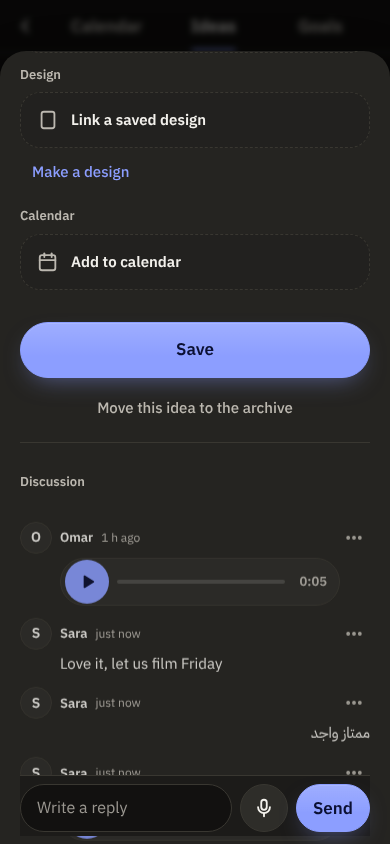
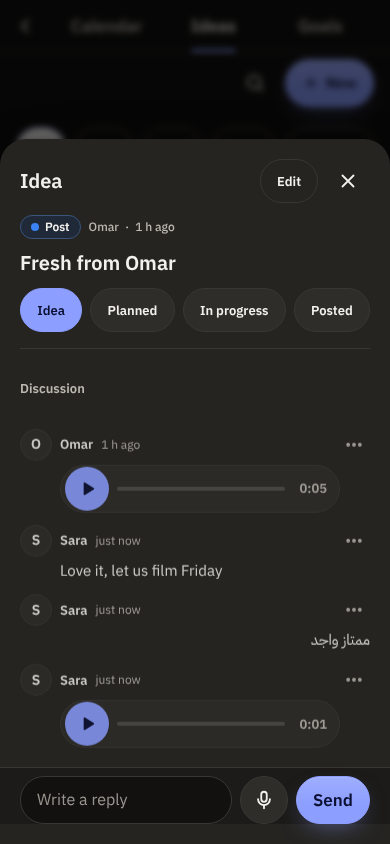
Ideas: discussion-first sheet with Edit, unread pills + onUnread, Instant Plan cache, open(id)
Claude-Session: https://claude.ai/code/session_01Y65H7aiL2ATUBPRfHggcrW

diff --git a/assets/ideas.js b/assets/ideas.js
@@ -48,11 +48,27 @@ function make(o){
   if(o.shell) root.classList.add('is-shell');
   let lastSig='', C=null, items=[], notes=[], openSheet=null, designs=[], cal={}, urls={}, state='loading', note='', run=0, slowT=0, built=false;
   let stage='idea', typeF='', q='', searchOpen=false, wasWide=wide();
+  let staleAt=null, dataAt=null, lastExtra='', pendingOpen=null, thumbsOnce=false, lastUnread=-1, saveT=0;
+  const CKEY='studio:plan:ideas:'+o.brand, SKEY='studio:ideas:seen:'+o.brand;
+  /* ---------- per-device memory: the Plan cache (paints at once) and when I last opened each idea ---------- */
+  const newest=(a,n)=>{ if(a.length<=n) return a; const keep=new Set(a.slice().sort((x,y)=>String(y.created_at).localeCompare(String(x.created_at))).slice(0,n)); return a.filter(x=>keep.has(x)); };   /* the newest n, in their own order */
+  const persist=()=>{ if(state!=='ok'||staleAt) return; const its=items.filter(x=>!x._pending&&!/^tmp/.test(x.id)), ns=notes.filter(x=>!x._pending);
+    wr(CKEY,{v:1,at:dataAt||new Date().toISOString(),items:newest(its,200),notes:newest(ns,600)}); };
+  const persistSoon=()=>{ clearTimeout(saveT); saveT=setTimeout(persist,250); };
+  const seenMap=()=>{ const m=rd(SKEY); return m&&typeof m==='object'&&!Array.isArray(m)?m:{}; };
+  function markSeen(id){ if(!id||/^tmp/.test(id)) return; const m=seenMap(); let t=new Date().toISOString();
+    notes.forEach(n=>{ if(n.idea_id===id&&n.created_at&&String(n.created_at)>t) t=String(n.created_at); }); m[id]=t;
+    const ks=Object.keys(m); if(ks.length>300){ ks.sort((a,b)=>String(m[a]).localeCompare(String(m[b]))); ks.slice(0,ks.length-300).forEach(k=>{ delete m[k]; }); } wr(SKEY,m); }
+  const hydrate=()=>{ const c=rd(CKEY); if(!c||c.v!==1||!Array.isArray(c.items)) return false; items=c.items; notes=Array.isArray(c.notes)?c.notes:[]; state='ok'; dataAt=c.at||null; lastSig=JSON.stringify([items,notes]); return true; };
+  /* only the designs and calendar entries that ideas point to can change what a card shows */
+  const extraSig=()=>JSON.stringify(items.map(x=>{ const g=x.design_id&&designOf(x.design_id), c=x.calendar_id&&cal[x.calendar_id]; return [g?g.name+(g.thumb_path||''):0,c?c.day+(c.at||''):0]; }));
+
   const authorName=()=>{ try{ return (o.who&&o.who.author&&o.who.author())||null; }catch(_){ return null; } };
   const designOf=id=>designs.find(d=>d.id===id);
   const againBtn='<button type="button" class="btn slim" data-reload>Try again</button>';
   const noteBox=(icn,title,text,btn)=>`<div class="sv-note"><span class="sn-ic" aria-hidden="true">${icn}</span><div class="sn-txt"><b>${title}</b><p>${text}</p></div>${btn||''}</div>`;
 
+  try{ if(hydrate()) lastExtra=extraSig(); }catch(_){}
   /* ---------- load ---------- */
   async function ensure(){ if(!C) C=await o.cloud(); return C; }
   async function load(){
@@ -62,17 +78,19 @@ function make(o){
     try{
       if(navigator.onLine===false) throw Object.assign(new Error('No connection. Check your internet and try again.'),{offline:true});
       await ensure(); if(my!==run) return;
-      if(!(await o.member())){ state='out'; drawTop(); drawBody(); return; }
+      if(!(await o.member())){ state='out'; items=[]; notes=[]; staleAt=null; lastSig=''; clearTimeout(saveT); wr(CKEY,null); drawTop(); drawBody(); return; }
       const now=new Date(), from=iso(new Date(now.getFullYear(),now.getMonth(),now.getDate()-90)), to=iso(new Date(now.getFullYear(),now.getMonth(),now.getDate()+90));
       const [list0,dl,cl,nl]=await Promise.all([C.ideas(o.brand),Promise.resolve(o.designs?o.designs():[]).catch(()=>designs),C.calendar?C.calendar(o.brand,{from:from,to:to}).catch(()=>[]):[],C.ideaNotes?C.ideaNotes(o.brand).catch(()=>notes):[]]); if(my!==run) return;
       const list=list0.map(x=>x.stage==='inbox'?{...x,stage:'idea'}:x), keepN=notes.filter(n=>n._pending); notes=(nl||[]).concat(keepN);
       designs=dl||[]; cal={}; (cl||[]).forEach(x=>{ cal[x.id]=x; });
       const live=new Set(list.map(x=>x.id)), keepP=items.filter(x=>x._pending&&!live.has(x.id));
       items=keepP.concat(list);
-      const sig=JSON.stringify([items,notes,designs.map(d=>d.id+d.updated_at),cl]), same=state==='ok'&&sig===lastSig; lastSig=sig;   /* 2.5.0: no redraw when nothing changed (no flicker) */
-      state='ok'; if(!same){ drawTop(); drawBody(); thumbsFor(items); if(openSheet) openSheet.thread(); }
+      const sig=JSON.stringify([items,notes]), extra=extraSig(), same=state==='ok'&&sig===lastSig&&extra===lastExtra; lastSig=sig; lastExtra=extra;   /* no redraw when nothing changed (no flicker) */
+      const wasStale=!!staleAt; staleAt=null; dataAt=new Date().toISOString(); state='ok'; if(!same||wasStale){ drawTop(); drawBody(); if(openSheet) openSheet.thread(); } persistSoon();
+      if(!same||!thumbsOnce){ thumbsOnce=true; thumbsFor(items); }
+      if(pendingOpen){ const it=items.find(x=>x.id===pendingOpen); pendingOpen=null; if(it&&!document.querySelector('dialog.id-edit')) sheet(it); }
     }catch(err){ if(my!==run) return; const net=o.netDown(err), slow=net&&/slow/i.test(err.message||'');
-      if(state==='ok'){ o.toast(net?'You’re offline. These are your ideas from before.':'Could not refresh the ideas: '+(err.message||err)); return; }
+      if(state==='ok'){ if(net||err.offline){ if(!staleAt){ staleAt=dataAt||new Date().toISOString(); drawBody(); } } else o.toast('Could not refresh the ideas: '+(err.message||err)); return; }
       state=net?(slow?'slow':'offline'):'error'; note=err.message||String(err); drawBody(); }
     finally{ if(my===run) clearTimeout(slowT); }
   }
@@ -161,6 +179,11 @@ function make(o){
   const nReplies=it=>notes.filter(n=>n.idea_id===it.id&&!n._pending).length;
   /* "new": the column exists (seen_at is null, not just missing), and the author is someone else */
   const isNew=it=>!pending(it)&&it.seen_at===null&&String(it.author||'')!==String(authorName()||'');
+  /* replies by others newer than my last open here (an idea I wrote and never opened here counts from its creation; someone else's from the moment anybody opened it) */
+  const unreadOf=it=>{ if(pending(it)) return 0; const me=String(authorName()||''), m=seenMap(); let base=m[it.id];
+    if(!base) base=String(it.author||'')===me?it.created_at:(it.seen_at||null); if(!base) return 0;
+    return notes.filter(n=>n.idea_id===it.id&&!n._pending&&String(n.author||'')!==me&&String(n.created_at)>String(base)).length; };
+  const emitUnread=()=>{ if(state!=='ok') return; const n=items.filter(x=>isNew(x)||unreadOf(x)>0).length; if(n!==lastUnread){ lastUnread=n; try{ o.onUnread&&o.onUnread(n); }catch(_){} } };
   const byLine=it=>{ const n=nReplies(it); return `<span class="id-by">${it.author?`<b class="id-av" aria-hidden="true">${esc(initial(it.author))}</b><span class="sr-only">${esc(it.author)}, </span>`:''}<bdi>${pending(it)?'Saving…':esc(ago(it.created_at))}</bdi>${n?`<span class="id-rc" title="Replies">${IC.chat}<bdi>${n}</bdi><span class="sr-only"> ${n===1?'reply':'replies'}</span></span>`:''}</span>`; };
   function card(it){
     const t=titleOf(it), snip=it.note?firstLine(it.note).slice(0,140):'', idx=STAGES.findIndex(s=>s[0]===it.stage), nxt=STAGES[idx+1];
@@ -168,7 +191,7 @@ function make(o){
     const meta=[it.audio_path?playerHtml(it.audio_path,it.audio_secs):'',linkChip(it),designMini(it),calChip(it)].filter(Boolean).join('');
     return `<article class="id-card${pending(it)?' pend':''}${isNew(it)?' is-new':''}" data-id="${esc(it.id)}"${!pending(it)?' draggable="true"':''}>
       <button type="button" class="id-main" data-open="${esc(it.id)}"${pending(it)?' disabled':''}>
-        <span class="id-top2">${isNew(it)?'<i class="id-new-dot" role="img" aria-label="New"></i>':''}${pill(it.type)}${byLine(it)}</span>
+        <span class="id-top2">${isNew(it)?'<i class="id-new-dot" role="img" aria-label="New"></i>':''}${pill(it.type)}${byLine(it)}${unreadOf(it)?`<span class="id-unread"><bdi>${unreadOf(it)}</bdi> new<span class="sr-only"> ${unreadOf(it)===1?'reply':'replies'}</span></span>`:''}</span>
         <span class="id-body2">${img}<span class="id-txt"><b class="id-title" dir="auto">${esc(t)}</b>${snip?`<span class="id-snip" dir="auto">${esc(snip)}</span>`:''}</span></span></button>
       ${meta?`<div class="id-meta">${meta}</div>`:''}
       ${pending(it)?'':`<div class="id-foot">${nxt?`<button type="button" class="id-next" data-next="${esc(it.id)}">Move to ${esc(nxt[1])}<span aria-hidden="true">›</span></button>`:'<span></span>'}</div>`}
@@ -200,7 +223,8 @@ function make(o){
       :state==='slow'?noteBox(ic('clock'),'Still loading…','The connection is slow. Your ideas show as soon as they arrive.',againBtn)
       :state==='out'?noteBox(IC.bulb,'Ideas are for your team','Sign in to keep and share ideas with your team.','<button type="button" class="btn slim" data-signin>Sign in</button>')
       :noteBox(ic('rotate'),'Could not load the ideas',esc(note),againBtn);
-    fillThumbs(el); paintAudio(); sTo(keepY);
+    if(state==='ok'&&staleAt){ el.insertAdjacentHTML('afterbegin',`<p class="id-stale small" role="status">Updated <bdi>${esc(ago(staleAt))}</bdi></p>`); }
+    fillThumbs(el); paintAudio(); sTo(keepY); if(state==='ok'){ emitUnread(); persistSoon(); }
   }
   function build(){ root.innerHTML='<div class="id-top"></div><div class="id-content"></div>'; drawTop(); }
 
@@ -257,13 +281,16 @@ function make(o){
   /* ---------- the idea sheet: edit + discussion thread ---------- */
   function sheet(src){
     if(!src||pending(src)) return;
-    const it={...src}; let img={blob:null,url:null,removed:false}, rec=null, busy=false;
+    const it={...src}; let img={blob:null,url:null,removed:false}, rec=null, busy=false, mode='read';
     const me=authorName(); const wasNew=isNew(src);
-    if(wasNew){ src.seen_at=new Date().toISOString(); src.seen_by=me; ensure().then(()=>C.markIdeaSeen&&C.markIdeaSeen(src.id,me)).catch(()=>{}); drawBody(); }
+    if(wasNew){ src.seen_at=new Date().toISOString(); src.seen_by=me; ensure().then(()=>C.markIdeaSeen&&C.markIdeaSeen(src.id,me)).catch(()=>{}); }
+    markSeen(src.id); drawBody();
     const hasImg=()=>!img.removed&&(img.url||it.image_path);
-    const d=o.dialog(`<div class="dlg-body id-sheet">
-      <form class="id-form" action="#" novalidate>
-      <div class="id-sh-head"><h3 id="idEH">Idea</h3><button type="button" class="cs-x" data-x aria-label="Close">${ic('close')}</button></div>
+    const d=o.dialog(`<div class="dlg-body id-sheet is-read">
+      <div class="id-sh-head"><h3 id="idEH">Idea</h3><button type="button" class="id-editbtn" data-edit>Edit</button><button type="button" class="cs-x" data-x aria-label="Close">${ic('close')}</button></div>
+      <div class="id-scroll">
+      <div class="id-read" id="idRead"></div>
+      <form class="id-form" action="#" novalidate hidden>
       <div class="field"><label class="lbl" for="idTitle">Title</label><input class="id-in" id="idTitle" dir="auto" autocomplete="off" value="${esc(it.title||'')}" placeholder="Name this idea"></div>
       <div class="field"><label class="lbl" for="idNote">Note</label><textarea class="id-in id-ta" id="idNote" dir="auto" rows="3" placeholder="Details, hooks, captions…">${esc(it.note||'')}</textarea></div>
       <div class="field"><span class="lbl" id="idTL">Type</span><div class="id-segw" role="group" aria-labelledby="idTL">${TYPES_ALL.map(([k,l])=>`<button type="button" class="id-sg" data-t="${k}" aria-pressed="${it.type===k}">${l}</button>`).join('')}</div></div>
@@ -274,8 +301,9 @@ function make(o){
       <div class="field"><span class="lbl">Calendar</span><div id="idCal"></div></div>
       <input type="file" id="idFile" accept="image/*" hidden>
       <div class="status" id="idSt" role="status"></div>
-      <div class="id-foot2"><button type="submit" class="btn" id="idSave">Save</button><button type="button" class="link" id="idDel">Move this idea to the archive</button></div></form>
+      <div class="id-foot2"><div class="id-saverow"><button type="submit" class="btn" id="idSave">Save</button><button type="button" class="mini" id="idCancel">Cancel</button></div><button type="button" class="link" id="idDel">Move this idea to the archive</button></div></form>
       <section class="id-tw" aria-labelledby="idTH"><h4 class="lbl" id="idTH">Discussion</h4><ul class="id-thread" id="idThread"></ul></section>
+      </div>
       <div class="id-composer"><div id="idRecHost" hidden></div>
         <div class="id-crow"><input class="id-in id-cin" id="idReply" dir="auto" autocomplete="off" enterkeyhint="send" aria-label="Write a reply" placeholder="Write a reply">
           <button type="button" class="id-cmic" data-cmic aria-label="Record a voice reply">${IC.mic}</button><button type="button" class="btn id-csend" data-csend>Send</button></div>
@@ -291,6 +319,15 @@ function make(o){
     const paintCal=()=>{ const c=it.calendar_id&&cal[it.calendar_id];
       $('#idCal').innerHTML=it.calendar_id?`<div class="id-calrow"><span class="id-chip id-cal big">${IC.cal}<bdi>${esc(c?parse(c.day).toLocaleDateString('en',{weekday:'long',day:'numeric',month:'long'})+(c.at?' · '+TIMES_AMPM(c.at):''):'On the calendar')}</bdi></span></div>`
         :`<button type="button" class="id-add" data-plan>${IC.cal.replace(/width="16" height="16"/,'width="22" height="22"')}<span>Add to calendar</span></button>`; };
+    /* read mode: the idea as content (nothing to edit until "Edit"), then the thread */
+    const paintRead=()=>{ const t=titleOf(it), hp=!!it.image_path, u=hp&&urls[it.image_path], chips=[linkChip(it),designMini(it),calChip(it)].filter(Boolean).join('');
+      $('#idRead').innerHTML=`<div class="id-rtop">${pill(it.type)}${it.author?`<span class="id-by"><bdi>${esc(it.author)}</bdi> · <bdi>${esc(ago(it.created_at))}</bdi></span>`:''}</div>
+        <h4 class="id-rtitle" dir="auto">${esc(t)}</h4>${it.note?`<p class="id-rnote" dir="auto">${esc(it.note)}</p>`:''}
+        ${hp?`<img class="id-rpic" alt="Picture" decoding="async" data-path="${esc(it.image_path)}"${u?` src="${u}"`:''}>`:''}${chips?`<div class="id-rchips">${chips}</div>`:''}
+        <div class="id-qstage" role="group" aria-label="Stage">${STAGES.map(([k,l])=>`<button type="button" class="id-sg" data-qs="${k}" aria-pressed="${it.stage===k}">${l}</button>`).join('')}</div>`; fillThumbs(d); };
+    const setMode=m=>{ mode=m; const ed=m==='edit'; $('.id-sheet').classList.toggle('is-read',!ed); $('.id-form').hidden=!ed; $('#idRead').hidden=ed; $('.id-tw').hidden=ed; $('.id-composer').hidden=ed; $('[data-edit]').hidden=ed;
+      $('#idEH').textContent=ed?'Edit idea':'Idea'; $('.id-scroll').scrollTop=0; if(ed){ setTimeout(()=>{ try{ $('#idTitle').focus({preventScroll:true}); }catch(_){} },30); } };
+    const fillForm=()=>{ $('#idTitle').value=it.title||''; $('#idNote').value=it.note||''; $('#idLink').value=it.link||''; d.querySelectorAll('[data-t]').forEach(x=>x.setAttribute('aria-pressed',String(x.dataset.t===it.type))); d.querySelectorAll('[data-s]').forEach(x=>x.setAttribute('aria-pressed',String(x.dataset.s===it.stage))); };
     /* the thread: the idea's own voice note first, then the replies, oldest first */
     const entries=()=>{ const e=[]; if(it.audio_path) e.push({id:'main',main:true,author:it.author,created_at:it.created_at,audio_path:it.audio_path,audio_secs:it.audio_secs,body:''});
       return e.concat(notes.filter(n=>n.idea_id===it.id).slice().sort((a,b)=>String(a.created_at).localeCompare(String(b.created_at)))); };
@@ -299,8 +336,8 @@ function make(o){
         ${e.body?`<p class="id-mtx" dir="auto">${esc(e.body)}</p>`:''}${e.audio_path?playerHtml(e.audio_path,e.audio_secs):''}</div></li>`; };
     const paintThread=(toEnd)=>{ const L=$('#idThread'); if(!L) return; const list=entries();
       L.innerHTML=list.length?list.map(msg).join(''):'<li class="id-none">No replies yet. Write one, or leave a voice note.</li>'; paintAudio(); if(toEnd&&list.length){ try{ L.lastElementChild.scrollIntoView({block:'nearest'}); }catch(_){} } };
-    paintPic(); paintDes(); paintCal(); paintThread(); thumbsFor([it]).then(()=>{ paintPic(); paintDes(); });
-    openSheet={thread:()=>paintThread()};
+    paintPic(); paintDes(); paintCal(); paintRead(); paintThread(); thumbsFor([it]).then(()=>{ paintPic(); paintDes(); paintRead(); });
+    openSheet={thread:()=>{ if(mode==='read'){ const cur=items.find(x=>x.id===it.id); if(cur){ Object.assign(it,cur); src=cur; paintRead(); } } paintThread(); markSeen(it.id); }};
     const setImage=async f=>{ if(!f) return; st('Preparing the picture…'); const b=await shrink(f); if(img.url) URL.revokeObjectURL(img.url); img={blob:b,url:URL.createObjectURL(b),removed:false}; st(''); paintPic(); };
     $('#idFile').onchange=e=>{ const f=e.target.files&&e.target.files[0]; e.target.value=''; setImage(f); };
     d.addEventListener('paste',e=>{ const f=imageFrom(e); if(f){ e.preventDefault(); setImage(f); } });
@@ -333,6 +370,9 @@ function make(o){
       catch(err){ rst(err.message||String(err)); } }
     d.addEventListener('click',e=>{ const t=e.target; let b;
       if(t.closest('[data-x]')&&t.closest('.id-sh-head')){ d.close(); return; }
+      if(t.closest('[data-edit]')){ setMode('edit'); return; }
+      if(t.closest('#idCancel')){ Object.assign(it,src); img={blob:null,url:null,removed:false}; fillForm(); paintPic(); paintDes(); paintCal(); st(''); setMode('read'); return; }
+      if((b=t.closest('[data-qs]'))){ const k=b.dataset.qs; if(it.stage===k) return; it.stage=k; hap('tick'); d.querySelectorAll('[data-qs]').forEach(x=>x.setAttribute('aria-pressed',String(x===b))); d.querySelectorAll('[data-s]').forEach(x=>x.setAttribute('aria-pressed',String(x.dataset.s===k))); patch(it.id,{stage:k}); return; }
       if(t.closest('[data-csend]')){ send(); return; }
       if(t.closest('[data-cmic]')){ startReply(); return; }
       if((b=t.closest('[data-mmore]'))){ const en=entries().find(x=>String(x.id)===b.dataset.mmore); if(en) entryMenu(en); return; }
@@ -349,14 +389,14 @@ function make(o){
       if(!item) return; it.calendar_id=item.id; cal[item.id]=item; if(it.stage==='idea'){ it.stage='planned'; d.querySelectorAll('[data-s]').forEach(x=>x.setAttribute('aria-pressed',String(x.dataset.s==='planned'))); }
       paintCal(); st('Added to the calendar. Press Save to keep the idea up to date.'); }
     $('#idDel').onclick=()=>{ d.close(); confirmArchive(src); };
-    d.addEventListener('close',()=>{ if(rec&&rec.active()) rec.cancel(); if(img.url) URL.revokeObjectURL(img.url); stopAudio(); openSheet=null; });
+    d.addEventListener('close',()=>{ if(rec&&rec.active()) rec.cancel(); if(img.url) URL.revokeObjectURL(img.url); stopAudio(); openSheet=null; markSeen(it.id); drawBody(); });
     d.querySelector('form').addEventListener('submit',async e=>{ e.preventDefault(); if(busy) return; if(rec&&rec.active()) return st('Stop the recording first.');
       busy=true; const sv=$('#idSave'); sv.disabled=true; st('Saving…');
       const link=$('#idLink').value.trim(), row={id:it.id,brand:o.brand,title:$('#idTitle').value.trim(),note:$('#idNote').value,type:it.type,stage:it.stage,link:link||null,design_id:it.design_id||null,calendar_id:it.calendar_id||null,sort:it.sort||0,author:it.author||authorName()||null};
       if(img.blob){ row.image=img.blob; row.image_path_old=it.image_path||undefined; } else if(img.removed&&it.image_path){ row.image_path=null; row.image_path_old=it.image_path; }
-      try{ await ensure(); const r=await C.saveIdea(row); const i=items.findIndex(x=>x.id===it.id); if(i>=0) items[i]={...items[i],...r}; d.close(); o.toast('Saved'); hap('tick'); drawTop(); drawBody(); thumbsFor([r]); }
+      try{ await ensure(); const r=await C.saveIdea(row); const i=items.findIndex(x=>x.id===it.id); if(i>=0){ items[i]={...items[i],...r}; src=items[i]; } Object.assign(it,src); if(img.url){ URL.revokeObjectURL(img.url); } img={blob:null,url:null,removed:false};
+        busy=false; sv.disabled=false; st(''); o.toast('Saved'); hap('tick'); drawTop(); drawBody(); paintRead(); paintPic(); paintDes(); paintCal(); fillForm(); setMode('read'); thumbsFor([src]).then(()=>{ paintRead(); paintPic(); }); }
       catch(err){ busy=false; sv.disabled=false; st('Could not save: '+(err.message||err)+' Try again.'); } });
-    setTimeout(()=>{ try{ if(!src.title) $('#idTitle').focus(); }catch(_){} },60);
   }
 
   /* ---------- quick capture: one sheet, seconds to save ---------- */
@@ -457,11 +497,13 @@ function make(o){
   matchMedia('(min-width:821px)').addEventListener('change',()=>{ if(wide()!==wasWide){ wasWide=wide(); if(built&&state==='ok') drawBody(); } });
 
   return {
-    show(){ const again=built&&state==='ok'&&root.querySelector('.id-content'); built=true; stopAudio(); if(!again){ lastSig=''; build(); drawBody(); }   /* coming back keeps the page on screen (no rebuild flash) */
+    show(){ const again=built&&state==='ok'&&root.querySelector('.id-content'); built=true; stopAudio(); if(!again){ if(state!=='ok') lastSig=''; build(); drawBody(); }   /* coming back keeps the page on screen (no rebuild flash) */
       load();
       const h=root.querySelector('#idH'); if(h&&!o.shell) h.focus({preventScroll:true}); },
     refresh(){ if(built) load(); },
     capture,
+    open(id){ const it=items.find(x=>x.id===id&&!x._pending); if(it){ if(!document.querySelector('dialog.id-edit')) sheet(it); return; }
+      pendingOpen=id; if(!built) this.show(); else if(state!=='loading') load(); },
     get items(){ return items; }
   };
 }

diff --git a/assets/ideas.css b/assets/ideas.css
@@ -222,3 +222,28 @@ a.id-lnk{min-height:44px;margin-block:-6px}
 .plan-shell .ideas-view .id-top{margin-inline:0;padding:6px 0 4px;border-bottom:0}
 .plan-shell .ideas-view .id-head{padding-top:0}
 :root .ideas-view .chip[aria-pressed="true"]{animation:none}   /* the board redraws on every tap: no re-pop */
+
+/* Session 8: the idea sheet opens as a read view (idea, then discussion), composer pinned at the bottom; "Edit" switches to the form */
+.dlg.id-edit[open]{display:flex;flex-direction:column;max-height:94dvh;overflow:hidden}
+.id-edit .id-sheet{flex:1;min-height:0;max-height:none;overflow:hidden;display:flex;flex-direction:column;gap:var(--sp-2)}
+.id-edit .id-scroll{flex:1;min-height:0;overflow-y:auto;overscroll-behavior:contain;display:flex;flex-direction:column;gap:var(--sp-4);margin-inline:-20px;padding:var(--sp-1) 20px var(--sp-3)}
+.id-edit .id-scroll[hidden],.id-edit [hidden]{display:none!important}
+.id-editbtn{min-height:44px;padding:0 var(--sp-4);border-radius:var(--r-pill);border:1px solid var(--line);background:none;color:var(--fg);font:600 var(--fs-s) var(--sans);cursor:pointer}
+.id-editbtn:active{background:var(--chip)}
+.id-editbtn:focus-visible,.id-qstage .id-sg:focus-visible{outline:3px solid var(--focus);outline-offset:2px}
+.id-read{display:flex;flex-direction:column;gap:var(--sp-3)}
+.id-rtop{display:flex;align-items:center;gap:var(--sp-2);flex-wrap:wrap}
+.id-rtitle{margin:0;font:600 var(--fs-xl) var(--sans);line-height:1.25;overflow-wrap:anywhere}
+.id-rnote{margin:0;font:400 var(--fs-m) var(--sans);line-height:1.5;white-space:pre-wrap;overflow-wrap:anywhere;color:var(--fg)}
+.id-rpic{width:100%;max-height:220px;object-fit:cover;border-radius:var(--r-m);background:var(--chip);display:block}
+.id-rchips{display:flex;flex-wrap:wrap;gap:var(--sp-2)}
+.id-qstage{display:flex;flex-wrap:wrap;gap:var(--sp-2)}
+.id-qstage .id-sg{padding:0 12px;flex:1 1 auto}
+.id-saverow{display:flex;gap:var(--sp-2);align-items:center}
+.id-saverow .btn{flex:1}
+.id-saverow .mini{min-height:48px;padding:0 var(--sp-4)}
+.id-edit .id-tw{border-top:1px solid var(--line);padding-top:var(--sp-3)}
+.id-edit .id-composer{position:static;flex:none;margin-inline:-20px;padding:var(--sp-2) 20px 0;background:var(--surface);border-top:1px solid var(--line)}
+.id-unread{display:inline-flex;align-items:center;gap:3px;padding:2px 8px;border-radius:var(--r-pill);background:var(--accent);color:var(--on-accent);font:600 var(--fs-xs) var(--sans)}
+.id-stale{margin:0 0 var(--sp-2);color:var(--muted);text-align:center}
+@media (max-width:560px){ .id-edit .id-scroll{margin-inline:-20px} }

diff --git a/studio-notes/pending/ideas3.md b/studio-notes/pending/ideas3.md
@@ -1,0 +1,23 @@
+# ideas3 (Sessions 7 + 8 for Ideas)
+
+## What's New card draft
+**Ideas open on the conversation** · Improved
+Tap an idea and you see the idea itself and the discussion straight away, with the reply bar waiting at the bottom. Editing is one "Edit" button away. Ideas with replies you have not read show a small "2 new" tag, and Ideas now appear instantly the second time you open them, even with no signal.
+
+## Lead to wire
+- `planCtx('ideas')`: pass `onUnread:n=>...` to show a badge on the Ideas tab (called with the number of ideas that have something new for this device; first call after the first paint, then only when it changes).
+- `api.open(id)` is exposed (waits for the load if the idea is not loaded yet; call `show()` first or not, it works either way).
+- No new shipped files (ideas.js / ideas.css only). New suite: `tests/ideas-unread.mjs` (already in run.mjs MAP and HUB_SUITES).
+
+## README lines
+- Idea sheet: reads first (idea, then discussion, reply bar pinned); Edit button for the form; stage chips change the stage in one tap.
+- "N new" pill = replies from others since you last opened the idea on this device (`studio:ideas:seen:<brand>`, 300 ideas max).
+- Instant Plan: Ideas keep their last data on the device (`studio:plan:ideas:<brand>`, up to 200 ideas / 600 replies); offline shows "Updated 5 min ago"; signing out clears it.
+
+## Lessons
+- Tests that reload the same URL with only a hash change do not reload: go through about:blank.
+- A cached paint must seed `lastSig` or the first refresh redraws everything; keep stored lists in their original order or the signature differs.
+- innerText of an inline-flex pill has newlines between children: match with \s.
+
+## Wording to approve
+"Edit", "Cancel", "N new", "Updated 5 min ago", "Discussion" (existing). No Arabic added.
